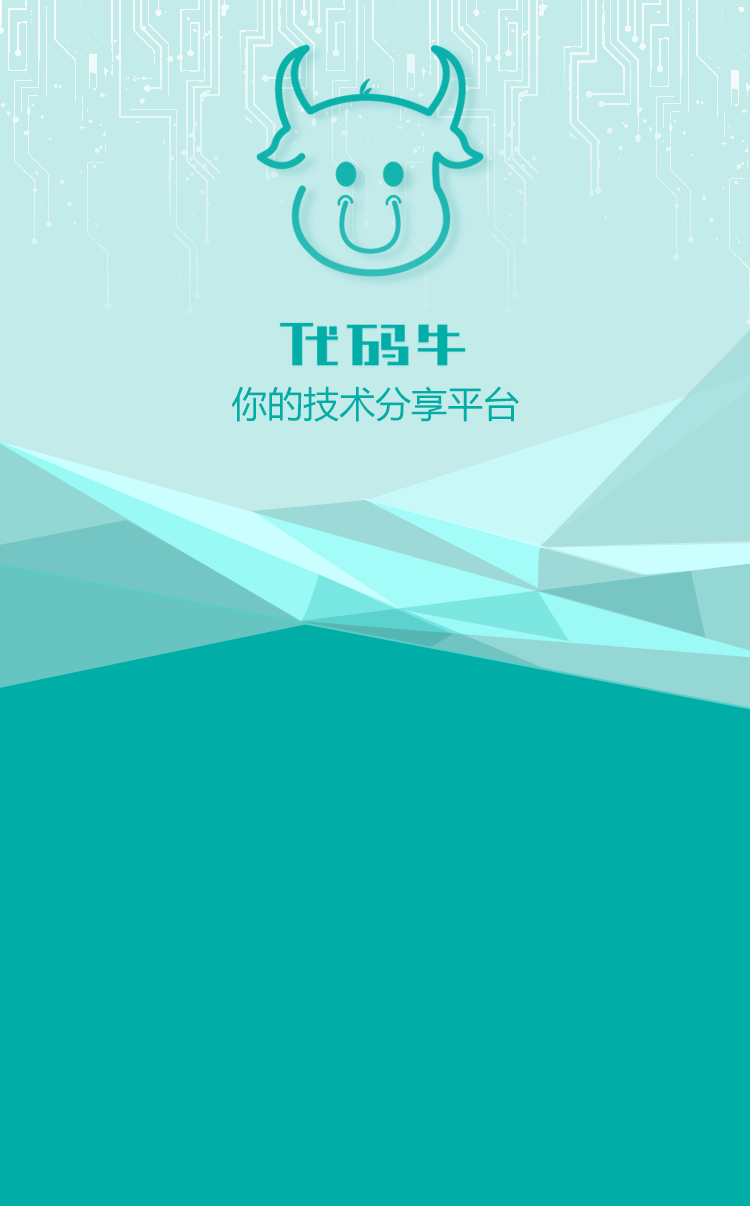
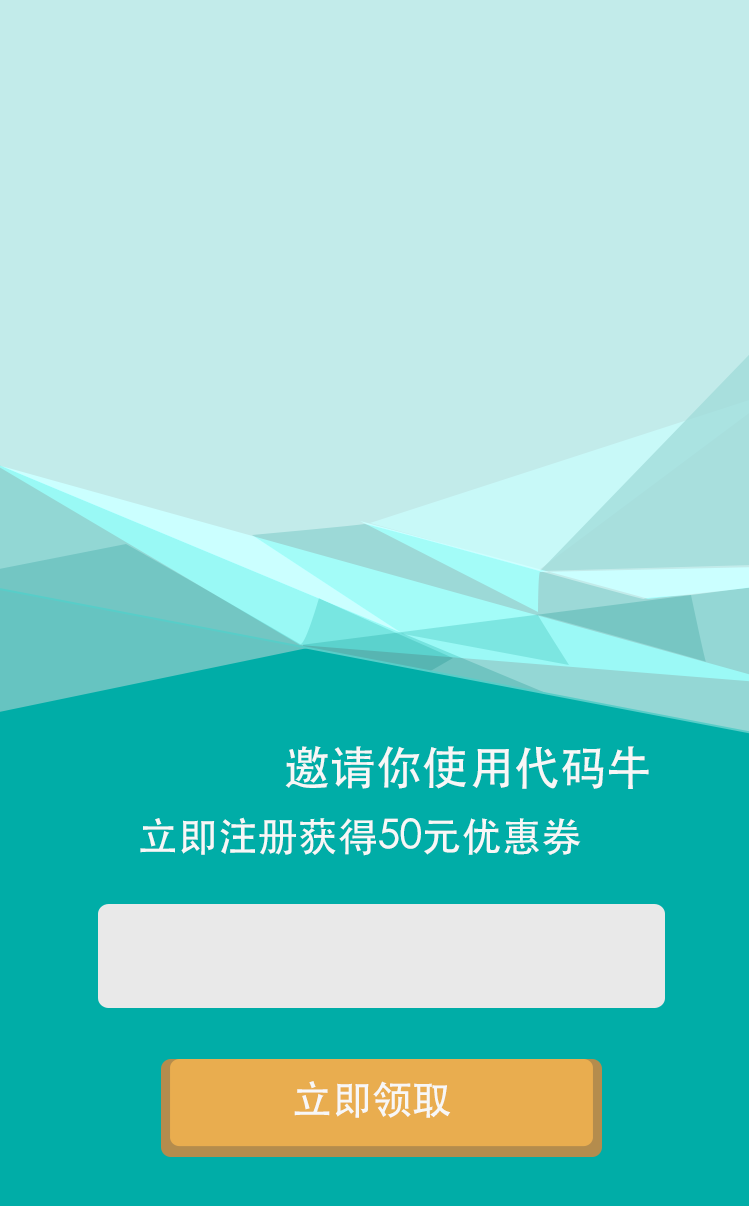
完成邀请页面和二维码页面

diff --git a/coupon-api/src/main/java/cn.xiaohuodui/controller/InviteController.java b/coupon-api/src/main/java/cn.xiaohuodui/controller/InviteController.java
@@ -10,7 +10,6 @@ import cn.xiaohuodui.utils.ApplicationConstants;
 import cn.xiaohuodui.utils.IPUtil;
 import org.springframework.stereotype.Controller;
 import org.springframework.ui.Model;
-import org.springframework.web.bind.annotation.PathVariable;
 import org.springframework.web.bind.annotation.RequestMapping;
 import org.springframework.web.bind.annotation.RequestMethod;
 import org.springframework.web.bind.annotation.ResponseBody;
@@ -40,9 +39,9 @@ public class InviteController {
     @Resource(name = "DeadLineUtil")
     DeadLineUtil deadLineUtil;
 
-    //  官方URL 相当于invite.daimaniu.cn?ref=20160801
-    @RequestMapping(value = "/{ref}", method = RequestMethod.GET)
-    public String invite(HttpServletRequest request, @PathVariable(value = "ref") String ref, Model model) {
+    //  邀请的URL 相当于invite.daimaniu.cn?ref=20160801
+    @RequestMapping(method = RequestMethod.GET)
+    public String invite(HttpServletRequest request, String ref, String name, Model model) {
         String ip = IPUtil.getIpAddr(request);
         String browser = IPUtil.getBrowser(request);
         System.out.println(ip + "---" + browser);
@@ -50,25 +49,32 @@ public class InviteController {
         long starttime = deadLineUtil.getStarttime(ref);
         long endtime = deadLineUtil.getEndtime(ref);
         System.out.println(System.currentTimeMillis());
-        System.out.println(starttime+"----"+endtime);
+        System.out.println(starttime + "----" + endtime);
         //判断当前时间是否小于开始时间或者大于结束时间
-        if (System.currentTimeMillis()<starttime||System.currentTimeMillis()>endtime){
+        if (System.currentTimeMillis() < starttime || System.currentTimeMillis() > endtime) {
             return "error";
         }
-        if (ref.length()==8){
+        if (ref.length() == 8) {
             model.addAttribute("type", "0");    //官方的url进来的
-        }else{
+        } else if (ref.length() == 7) {
             model.addAttribute("type", "2");    //企业的url进来的
+        } else {
+            model.addAttribute("type", "1");    //个人的url进来的
         }
         model.addAttribute("Activity", activityService.getinfo(ref));
         model.addAttribute("code", ref);
-        clickService.setInfo(ref, ip, browser);
-        return "invite";
+        if (name == null) {
+            return "officalInvite";
+        } else {
+            model.addAttribute("name", name);
+            clickService.setInfo(ref, ip, browser);
+            return "invite";
+        }
     }
 
 
     //  个人URL 相当于invite.daimaniu.cn?ref=vwZLr3&name=keepcleargas
-    @RequestMapping(value = "/{ref}/{name}", method = RequestMethod.GET)
+ /*   @RequestMapping(value = "/{ref}/{name}", method = RequestMethod.GET)
     public String invite(HttpServletRequest request, @PathVariable(value = "ref") String ref, @PathVariable(value = "name") String name, Model model) {
         String ip = IPUtil.getIpAddr(request);
         String browser = IPUtil.getBrowser(request);
@@ -80,7 +86,7 @@ public class InviteController {
         clickService.setInfo(ref, ip, browser);
         return "invite";
     }
-
+*/
 
     //    手机号码提交后判断是否已经领取，并保存信息
     @RequestMapping(value = "/add", method = RequestMethod.POST)
@@ -88,17 +94,16 @@ public class InviteController {
     @ResponseBody
     String addInfo(String ref, String type, String phone) {
         System.out.println("code:" + ref + "type:" + type + "phone:" + phone);
-        if (shareService.setInfo(ref, phone, type)&&couponService.updateSended(ref)) {
+        if (shareService.setInfo(ref, phone, type) && couponService.updateSended(ref)) {
             return ApplicationConstants.RESPONSE_SUCCESS;
         } else {
             return ApplicationConstants.RESPONSE_FAIL;
         }
-
     }
 
     //提交成功 跳转
     @RequestMapping(value = "/finish", method = RequestMethod.GET)
-    public String redirect(){
+    public String redirect() {
         return "invitefinish";
     }
 }
